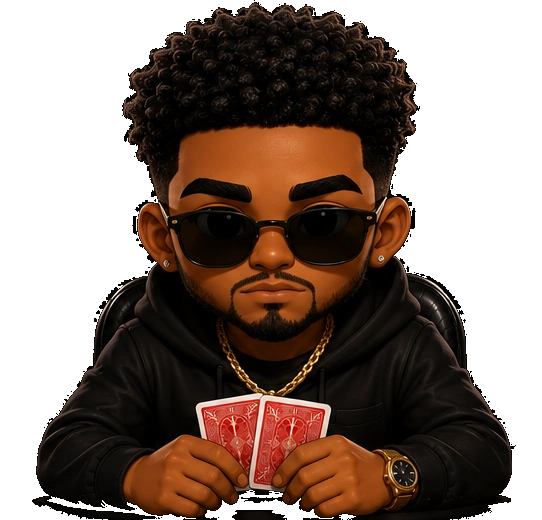
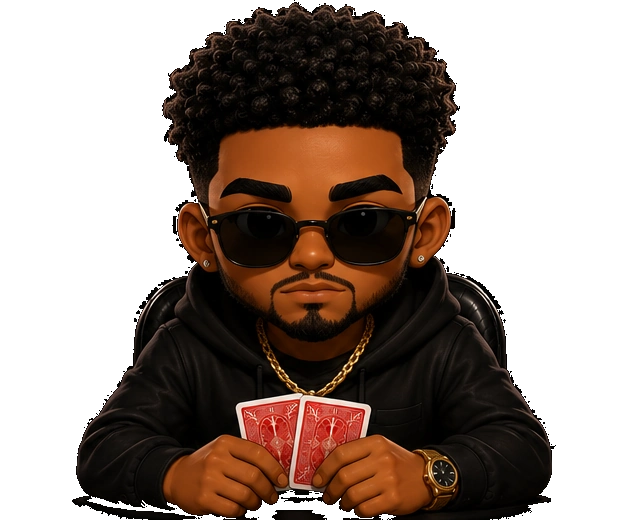
Add a 40deg seat-art angle for character6-11, fix collection thumbnail path
Rounds out the seat-art turnaround: character1-5 already had [0,20,40],
this brings 6-11 to the same coverage (re-cropped their 0/20 plates too,
since their bounding box widened to fit the new angle).

Also fixes characterThumbnail() -- it still pointed at
/avatars3d/collection/<id>.png after those files were moved to
/collection/<id>.png, so the Collection grid's 3D-avatar thumbnails were
all 404ing. catalog.test.ts was failing on this before the fix.

The old avatars3d/*.webp turnaround (front/back/45s) is unreferenced
dead art from before the rigged .glb avatars replaced it -- safe to
delete.

diff --git a/lib/scene/seat-art.generated.ts b/lib/scene/seat-art.generated.ts
@@ -18,14 +18,14 @@ export interface SeatArtCharacter {
 
 export const SEAT_ART_CHARACTERS: readonly SeatArtCharacter[] = [
   { id: "character1", angles: [0, 20, 40] as const, box: { width: 892, height: 1047 } },
-  { id: "character10", angles: [0, 20] as const, box: { width: 606, height: 501 } },
-  { id: "character11", angles: [0, 20] as const, box: { width: 496, height: 501 } },
+  { id: "character10", angles: [0, 20, 40] as const, box: { width: 606, height: 501 } },
+  { id: "character11", angles: [0, 20, 40] as const, box: { width: 676, height: 508 } },
   { id: "character2", angles: [0, 20, 40] as const, box: { width: 942, height: 1099 } },
   { id: "character3", angles: [0, 20, 40] as const, box: { width: 794, height: 1120 } },
   { id: "character4", angles: [0, 20, 40] as const, box: { width: 760, height: 1172 } },
   { id: "character5", angles: [0, 20, 40] as const, box: { width: 866, height: 1086 } },
-  { id: "character6", angles: [0, 20] as const, box: { width: 530, height: 521 } },
-  { id: "character7", angles: [0, 20] as const, box: { width: 542, height: 520 } },
-  { id: "character8", angles: [0, 20] as const, box: { width: 582, height: 524 } },
-  { id: "character9", angles: [0, 20] as const, box: { width: 524, height: 501 } },
+  { id: "character6", angles: [0, 20, 40] as const, box: { width: 530, height: 521 } },
+  { id: "character7", angles: [0, 20, 40] as const, box: { width: 622, height: 520 } },
+  { id: "character8", angles: [0, 20, 40] as const, box: { width: 646, height: 524 } },
+  { id: "character9", angles: [0, 20, 40] as const, box: { width: 580, height: 512 } },
 ] as const;

diff --git a/lib/scene/seat-art.test.ts b/lib/scene/seat-art.test.ts
@@ -4,7 +4,7 @@ import { describe, expect, it } from "vitest";
 
 import { HANDS_PER_DOWN } from "./dealer-roster";
 import { SEAT_ART_CHARACTERS } from "./seat-art.generated";
-import { seatArtCharacterForSlot, seatArtSrc } from "./seat-art";
+import { pickSeatArt, seatArtCharacterForSlot, seatArtSrc } from "./seat-art";
 
 const publicDir = path.join(process.cwd(), "public");
 
@@ -80,5 +80,15 @@ describe("seatArtCharacterForSlot", () => {
       expect(ids).toContain(seatArtCharacterForSlot("table-a", hand, 3)?.id);
     }
     expect(ids).toContain(seatArtCharacterForSlot("", 4, 1)?.id);
+  });
+});
+
+describe("pickSeatArt angle contracts", () => {
+  it("keeps the normal 20-degree tier separate from the forced 40-degree seat", () => {
+    const character = SEAT_ART_CHARACTERS.find((entry) => entry.id === "character6");
+    expect(character).toBeDefined();
+
+    expect(pickSeatArt(character!, 25).src).toBe(seatArtSrc("character6", 20));
+    expect(pickSeatArt(character!, 25, 40).src).toBe(seatArtSrc("character6", 40));
   });
 });

diff --git a/lib/cosmetics/catalog.ts b/lib/cosmetics/catalog.ts
@@ -86,7 +86,7 @@ export function avatarFace(id: string): string {
 
 /** Browser-captured thumbnail of a rigged character for the Collection grid. */
 export function characterThumbnail(id: string): string {
-  return `/avatars3d/collection/${id}.png`;
+  return `/collection/${id}.png`;
 }
 
 /**
